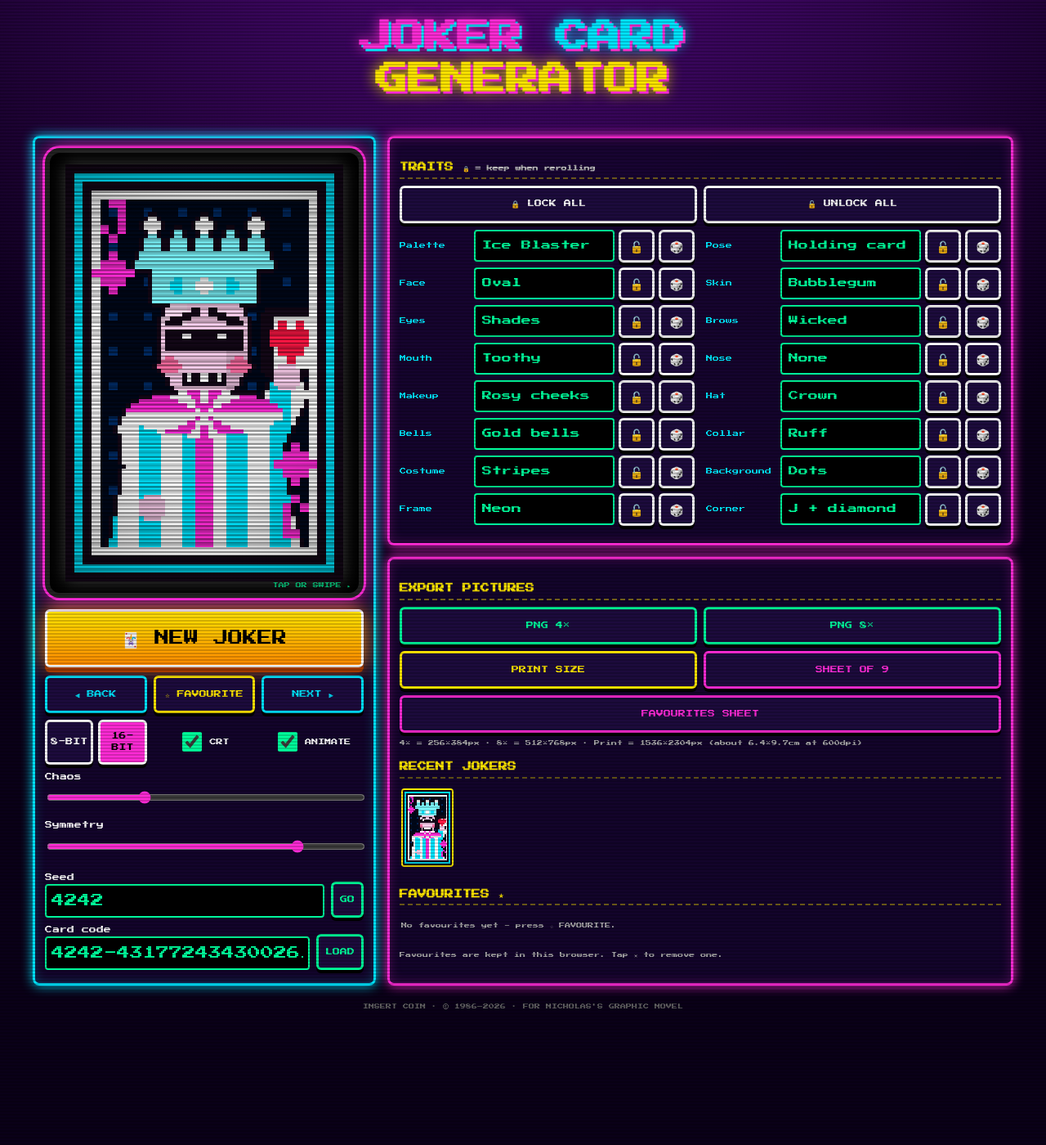
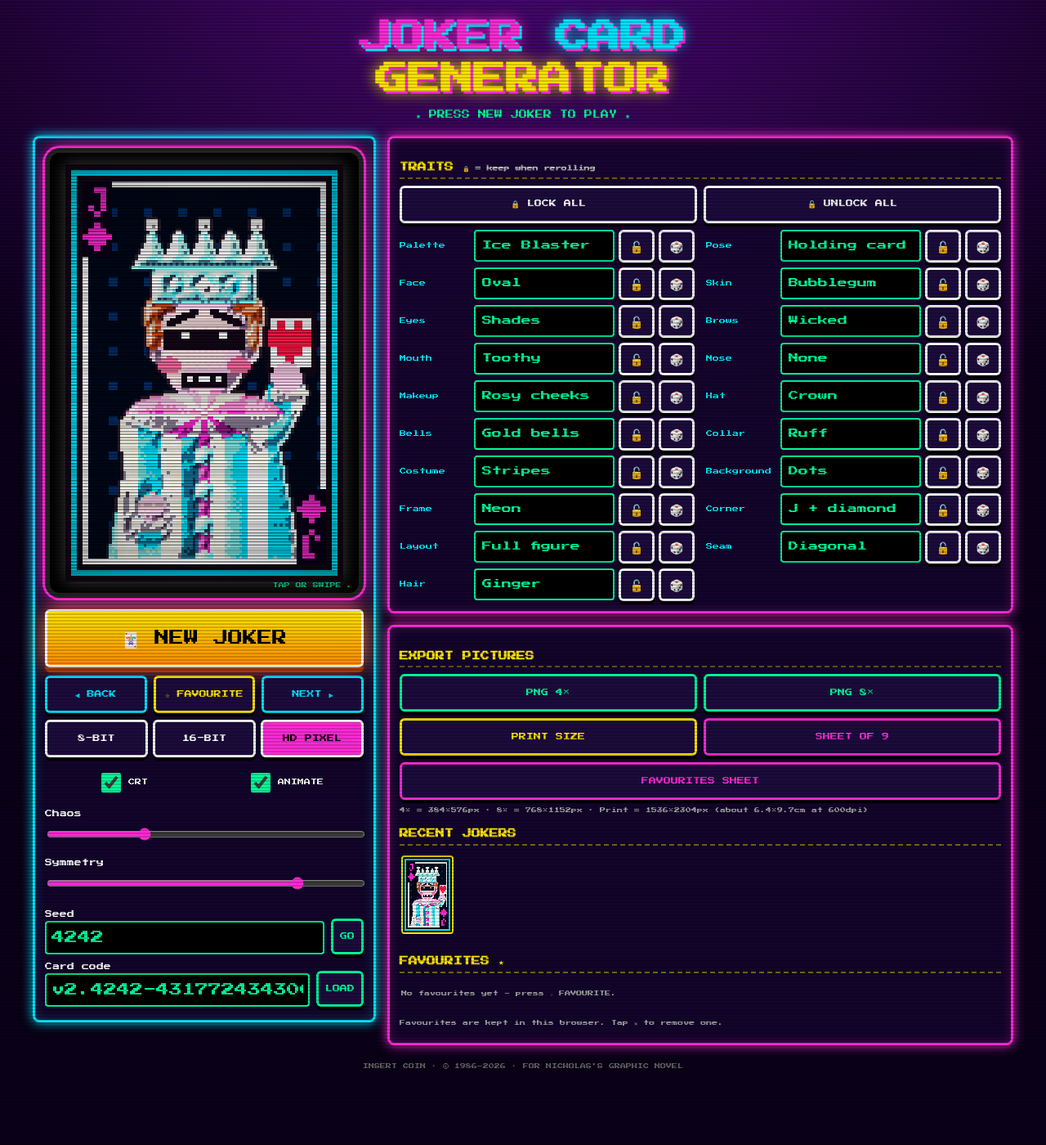
HD pixel mode: shading, dithering, rim light, materials; double-ended court-card layout

Changed region(s): [[0.0, 0.1229, 1.0, 0.9214], [0.4062, 0.0921, 0.5312, 0.1229], [0.5625, 0.0921, 0.5938, 0.1229]]

diff --git a/engine.js b/engine.js
@@ -23,19 +23,20 @@ const TRAITS={
  hat:["Two points","Three points","Four floppy","Crown","Hood","Top hat","Pom-pom cap"],bells:["Gold bells","Pom-poms","No bells"],
  collar:["Ruff","Zigzag","Bow tie","Pointed","None"],costume:["Diamonds","Halves","Stripes","Polka dots","Checks"],
  background:["Diagonal stripes","Checkerboard","Diamonds","Sunburst","Starfield","Synthwave grid","Dots","Plain"],
- frame:["Classic card","Neon","Gold ornate","Arcade cabinet","Ticket","Double line"],corner:["J + star","J + heart","J + diamond","JOKER vertical","Coin","Crown"]};
+ frame:["Classic card","Neon","Gold ornate","Arcade cabinet","Ticket","Double line"],corner:["J + star","J + heart","J + diamond","JOKER vertical","Coin","Crown"],
+ layout:["Double-ended","Full figure"],seam:["Horizontal","Diagonal"],hair:["Ginger","Black","Blonde","Purple","Bald"]};
 const TRAIT_KEYS=Object.keys(TRAITS);
-function rollTrait(seed,k){return Math.floor(RNG(seed^hashStr(k))()*TRAITS[k].length);}
+function rollTrait(seed,k){if(k==='layout')return RNG(seed^hashStr(k))()<.75?0:1;return Math.floor(RNG(seed^hashStr(k))()*TRAITS[k].length);}
 function newJoker(seed,locked={},prev=null,settings={chaos:.3,symmetry:.8}){const t={};TRAIT_KEYS.forEach(k=>t[k]=(locked[k]&&prev)?prev.traits[k]:rollTrait(seed,k));return{seed,traits:t,chaos:settings.chaos,symmetry:settings.symmetry};}
 const MINI={J:"011 001 001 101 010",O:"010 101 101 101 010",K:"101 101 110 101 101",E:"111 100 110 100 111",R:"110 101 110 101 101",
  star:"00100 11111 01110 01010 10001",heart:"01010 11111 11111 01110 00100",diamond:"00100 01110 11111 01110 00100",coin:"01110 11011 11011 11011 01110",crown:"10101 11111 11111 00000 11111"};
 
 function renderJoker(J,res,anim={}){
- const S=res===16?2:1,W=32*S,H=48*S,t=J.traits,P=PALETTES[t.palette],R=RNG(J.seed*2654435761+7),ch=J.chaos,sym=J.symmetry;
+ const HD=res==='hd',S=HD?3:res===16?2:1,W=32*S,H=48*S,t=J.traits,DE=t.layout===0,P=PALETTES[t.palette],R=RNG(J.seed*2654435761+7),ch=J.chaos,sym=J.symmetry;
  const jit=a=>(R()-.5)*2*a*ch,asym=()=>R()>sym;
- const pose=t.pose,bust=pose===0,fs=bust?1.3:1,cy=bust?25:20.5;
- const ops=[],add=(fig,test,col)=>ops.push({fig,test,col});
- const L=(x,y)=>[(x-16)/fs,(y-cy)/fs];
+ const pose=t.pose,bust=pose===0,fs=DE?(bust?.98:.9):(bust?1.3:1),cy=DE?(bust?15.2:14.6):(bust?25:20.5),cxo=DE&&t.seam===1?-3.2:0;let mat='flat';
+ const ops=[],add=(fig,test,col)=>ops.push({fig,test,col,mat});
+ const L=(x,y)=>[(x-16-cxo)/fs,(y-cy)/fs];
  const F=(test,col,fig=true)=>add(fig,(x,y)=>{const[a,b]=L(x,y);return test(a,b);},typeof col==='function'?(x,y)=>{const[a,b]=L(x,y);return col(a,b);}:col);
  const ell=(cx,cy,rx,ry)=>(x,y)=>((x-cx)/rx)**2+((y-cy)/ry)**2<=1;
  const rect=(x0,y0,x1,y1)=>(x,y)=>x>=x0&&x<x1&&y>=y0&&y<y1;
@@ -52,20 +53,26 @@ function renderJoker(J,res,anim={}){
  const stars=[];if(t.background===4)for(let i=0;i<40;i++)stars.push([Math.floor(R()*32),Math.floor(R()*48),R()<.3?c2:"#ffffff"]);
  add(false,()=>true,(x,y)=>bgFn?bgFn(x,y):(stars.some(s=>s[0]===Math.floor(x)&&s[1]===Math.floor(y))?stars.find(s=>s[0]===Math.floor(x)&&s[1]===Math.floor(y))[2]:bgA));
  // ---- body / arms
+ mat='cloth';
  const cst=t.costume,cosCol=(x,y)=>[(((Math.floor((x+y)/3)+Math.floor((x-y)/3))%2+2)%2)?c0:c1,x<0?c0:c1,(Math.floor(x/2.5)%2+2)%2?c0:c1,((Math.round(x)%4+4)%4===0&&(Math.round(y)%4+4)%4===0)?c2:c0,((Math.floor(x/3)+Math.floor(y/3))%2+2)%2?c0:c1][cst];
- const armSide=(side,hx,hy)=>{F(seg(side*7.5,10,hx,hy+2,2.3),side<0?(cst===1?c0:c1):(cst===1?c1:c0));F(seg(side*7.5,10,hx,hy+2,2.3),(x,y)=>cosCol(x,y));F(ell(hx,hy,1.7,1.7),t.skin===4?"#ffffff":shade(skin,-.05));};
+ const armSide=(side,hx,hy)=>{mat='cloth';F(seg(side*7.5,10,hx,hy+2,2.3),(x,y)=>cosCol(x,y));F(ell(hx+side*.2,hy+1.9,2.2,1.1),'#ffffff');mat='skin';F(ell(hx,hy,1.7,1.7),t.skin===4?"#ffffff":skin);F(rect(hx-1.6,hy-.5,hx+1.6,hy-.1),shade(skin,-.25));mat='cloth';};
  const hands={1:[[-6,19],[6,19]],2:[[-10,2],[10,2]],3:[[-6,19],[9.5,4]],4:[[-9.5,4],[6,19]],5:[[-6,19],[9.5,4]]}[pose];
  F(poly([[-8,8],[8,8],[14,40],[-14,40]]),cosCol);
- F(seg(0,10,0,30,.8),c2);[13,17,21,25].forEach(y=>F(ell(0,y,1.1,1.1),c2));
+ F(seg(0,10,0,30,.8),c2);mat='metal';[13,17,21,25].forEach(y=>F(ell(0,y,1.1,1.1),P.gold));mat='cloth';
  if(hands)hands.forEach(([hx,hy],i)=>armSide(i?1:-1,hx,hy));
  // ---- hood (behind face)
  if(t.hat===4){F(ell(0,-1,8.6,9.6),c0);F(poly([[-6,-7],[6,-7],[3,-16],[0,-17]]),c1);F(ell(0,-1,6.8,8),dark);}
  // ---- neck + face
- F(rect(-2,4,2,9),shade(skin,-.15));
+ const fsh0rx=()=>[6,5.2,4.6,5.4,6][t.face];
+ mat='skin';F(rect(-2,4,2,9),shade(skin,-.18));
+ const hairC=["#c2410c","#1b1b2f","#f5c542","#7c3aed",null][t.hair];
+ if(t.hat!==4){F(mir(ell(fsh0rx()+.1,.6,1.2,1.8)),skin);F(mir(ell(fsh0rx()+.1,.8,.5,.9)),shade(skin,-.3));}
  const fsh=[ell(0,0,6,6.5),ell(0,0,5.2,7),ell(0,.6,4.6,7.6),(x,y)=>Math.abs(x)<=5.4&&Math.abs(y)<=6.4&&!(Math.abs(x)>4.4&&Math.abs(y)>5.4),
   (x,y)=>ell(0,-1,6,5.6)(x,y)||poly([[-5.6,0],[5.6,0],[0,7.5]])(x,y)][t.face];
- const harl=t.makeup===5,hside=asym()?1:-1;
- F(fsh,(x,y)=>{let c=skin;if(harl&&x*hside>0)c=shade(c0,.55);if(x>2.5&&y>1)c=shade(c,-.12);if(x<-2&&y<-2)c=shade(c,.25);return c;});
+ mat='skin';const harl=t.makeup===5,hside=asym()?1:-1;
+ F(fsh,(x,y)=>{let c=skin;if(harl&&x*hside>0)c=shade(c0,.55);return c;});
+ if(hairC&&t.hat!==4){mat='cloth';F(mir((x,y)=>ell(5.2,-3,1.9,2.6)(x,y)&&!ell(3.4,-1.4,1.8,2.2)(x,y)),hairC);F(mir(ell(5.8,-.8,1,1.6)),hairC);}
+ mat='flat';
  // ---- makeup
  const ex=2.6+jit(.4),ey=-.6+jit(.3);
  if(t.makeup===1){const d=(x,y)=>Math.abs(x-ex)/1.4+Math.abs(y-ey)/3.2<=1;const one=asym();F((x,y)=>d(x,y)||(!one&&d(-x,y)),c0);}
@@ -76,7 +83,8 @@ function renderJoker(J,res,anim={}){
  // ---- eyes
  const blink=anim.blink,ev=blink&&t.eyes!==7?-1:t.eyes,E=(f,c)=>F(mir(f),c),Eone=(f,c,side)=>F((x,y)=>f(side*x,y),c);
  if(ev===-1)E(rect(ex-1,ey,ex+1,ey+.9),dark);
- if(ev===0)E(rect(ex-.5,ey-1,ex+.6,ey+.9),dark);
+ if(ev===0&&!HD)E(rect(ex-.5,ey-1,ex+.6,ey+.9),dark);
+ if(ev===0&&HD){E(ell(ex,ey,1.45,1.05),"#fdf6ff");E(ell(ex+.15,ey+.05,.8,.95),c1);E(ell(ex+.2,ey+.1,.42,.5),dark);E(rect(ex-.5,ey-.55,ex-.15,ey-.2),"#ffffff");E(rect(ex-1.5,ey-1.15,ex+1.5,ey-.75),dark);}
  if(ev===1){E(ell(ex,ey,1.5,1.6),"#ffffff");E(rect(ex-.4,ey-.6,ex+.7,ey+.9),dark);}
  if(ev===2){Eone(rect(ex-.5,ey-1,ex+.6,ey+.9),dark,1);Eone((x,y)=>seg(ex-1.2,ey+.4,ex+1.2,ey-.2,.45)(x,y),dark,-1);}
  if(ev===3)E((x,y)=>seg(ex-1,ey-1,ex+1,ey+1,.4)(x,y)||seg(ex-1,ey+1,ex+1,ey-1,.4)(x,y),dark);
@@ -100,57 +108,92 @@ function renderJoker(J,res,anim={}){
  if(m===5)F(ell(0,my,1.2,1.3),dark);
  if(m===6){F((x,y)=>ell(0,my-1.3,4,2.3)(x,y)&&!ell(0,my-2.4,3.4,2)(x,y),"#ff1744");F((x,y)=>seg(-3,my-1.1,3,my-1.1,.3)(x,y)&&ell(0,my-1.3,4,2.3)(x,y)&&!ell(0,my-2.4,3.4,2)(x,y),dark);}
  // ---- collar
- const co=t.collar;
+ mat='cloth';const co=t.collar;
  if(co===0)F(ell(0,8.2,9,2.6),(x,y)=>{const a=Math.atan2(y-8.2,x);return Math.floor((a+Math.PI)/(Math.PI/7))%2?"#ffffff":c2;});
  if(co===1)for(let i=-4;i<4;i++)F(poly([[i*2.2,6.8],[(i+1)*2.2,6.8],[(i+.5)*2.2,11]]),i%2?c2:"#ffffff");
  if(co===2){F(mir(poly([[0,7.7],[4,5.8],[4,10],])),c0);F(ell(0,7.9,1.2,1.2),c2);}
  if(co===3){F(rect(-7,6.5,7,8.5),c1);[[-12,12],[-5,13.5],[5,13.5],[12,12]].forEach(([tx,ty],i)=>F(poly([[(i-2)*3.5,7],[(i-1)*3.5,7],[tx,ty]]),i%2?c0:c2));}
  // ---- hats
- const tips=[],bellsOn=t.bells!==2,hc=i=>(i%2?c1:c0);
+ mat='cloth';const tips=[],bellsOn=t.bells!==2,hc=i=>(i%2?c1:c0);
  const pointHat=(list)=>list.forEach(([b0,b1,tx,ty],i)=>{tx+=jit(1.2);ty+=jit(1.2);const mx=(b0+b1)/2+(tx-(b0+b1)/2)*.4,mY=Math.min(ty,-6)-3;
   const col=asym()&&i===list.length-1?c2:hc(i);F(poly([[b0,-4.6],[mx-1,mY],[tx,ty],[mx+1,mY+1],[b1,-4.6]]),col);tips.push([tx,ty]);});
  if(t.hat===0)pointHat([[-6.4,0,-11,-1],[0,6.4,11,-1]]);
  if(t.hat===1)pointHat([[-6.4,-1.5,-10.5,-6],[-2.2,2.2,0,-15.5],[1.5,6.4,10.5,-6]]);
  if(t.hat===2)pointHat([[-6.4,-2,-12,1],[-3,0,-5,-15],[0,3,5,-15],[2,6.4,12,1]]);
  if(t.hat<=2)F(rect(-6.6,-6.2,6.6,-4),(x,y)=>(Math.floor(x+20)+Math.floor(y+20))%2?c2:"#ffffff");
- if(t.hat===3){F(rect(-6,-8.5,6,-4.5),P.gold);F((x,y)=>y<-8.4&&y>-13&&[-6,-3,0,3,6].some(px=>Math.abs(x-px)*2.2<y+13.5),P.gold);[-3.2,0,3.2].forEach((gx,i)=>F(ell(gx,-6.5,.9,.9),[c0,c1,c0][i]));tips.push(...[-6,0,6].map(x=>[x,-13.5]));}
+ if(t.hat===3){mat='metal';F(rect(-6,-8.5,6,-4.5),P.gold);F((x,y)=>y<-8.4&&y>-13&&[-6,-3,0,3,6].some(px=>Math.abs(x-px)*2.2<y+13.5),P.gold);[-3.2,0,3.2].forEach((gx,i)=>F(ell(gx,-6.5,.9,.9),[c0,c1,c0][i]));tips.push(...[-6,0,6].map(x=>[x,-13.5]));}
  if(t.hat===4)tips.push([0,-17]);
  if(t.hat===5){F(rect(-8.5,-6.6,8.5,-4.6),dark);F(rect(-5,-16,5,-6.4),dark);F(rect(-5,-9,5,-7),c0);F(rect(-3.6,-15,-2.6,-10),"#555555");}
  if(t.hat===6){F((x,y)=>ell(0,-4.6,6.8,5)(x,y)&&y<-4,(x,y)=>Math.floor(x/2.2+10)%2?c0:c1);F(rect(-6.8,-5.2,6.8,-3.8),"#ffffff");tips.push([0,-10.4]);}
- const jy=anim.jingle?-.8:0;
+ mat='metal';const jy=anim.jingle?-.8:0;
  if(t.hat!==5&&t.hat!==3)tips.forEach(([x,y],i)=>{if(!bellsOn)return;const dy=i%2?jy:-jy;
   if(t.bells===0){F(ell(x,y+dy,1.5,1.5),P.gold);F(rect(x-.6,y+dy-.9,x,y+dy-.3),"#ffffff");F(rect(x-.3,y+dy+.6,x+.3,y+dy+1.4),dark);}
   else F(ell(x,y+dy,1.6,1.6),i%2?"#ffffff":c2);});
  if(t.hat===3)tips.forEach(([x,y])=>F(ell(x,y,.8,.8),"#ffffff"));
  // ---- props
+ mat='metal';
  if(pose===2){[[-12,-3],[12,-4],[9,-12]].forEach(([x,y],i)=>{x+=jit(1);F(ell(x,y,1.6,1.6),[c2,c0,c1][i]);F(rect(x-.9,y-.9,x-.2,y-.2),"#ffffff");});F(mir(seg(-11.5,-7,-10.8,-10,.3)),"#ffffff");}
- if(pose===3){F(rect(7.2,-3.5,12.8,3.6),"#ffffff");F((x,y)=>!rect(7.8,-2.9,12.2,3)(x,y)&&rect(7.2,-3.5,12.8,3.6)(x,y),dark);const h=MINI.heart.split(' ');F((x,y)=>{const a=Math.floor(x-7.5),b=Math.floor(y+2.4);return a>=0&&a<5&&b>=0&&b<5&&h[b][a]==='1';},"#ff1744");F(ell(9.5,4,1.7,1.7),skin);}
+ mat='flat';if(pose===3){F(rect(7.2,-3.5,12.8,3.6),"#ffffff");F((x,y)=>!rect(7.8,-2.9,12.2,3)(x,y)&&rect(7.2,-3.5,12.8,3.6)(x,y),dark);const h=MINI.heart.split(' ');F((x,y)=>{const a=Math.floor(x-7.5),b=Math.floor(y+2.4);return a>=0&&a<5&&b>=0&&b<5&&h[b][a]==='1';},"#ff1744");F(ell(9.5,4,1.7,1.7),skin);}
  if(pose===4){F(seg(-9.5,2.2,-8,-3.4,.35),"#00a83a");F(seg(-6.7,2.6,-8,-3.4,.35),"#00a83a");F(ell(-7,-3.6,1.3,.7),"#2ee84a");F(ell(-10,2.6,1.6,1.6),"#ff1744");F(ell(-6.6,3,1.6,1.6),"#d50032");F(rect(-10.6,1.8,-10,2.4),"#ffffff");}
  if(pose===5){F(rect(7.4,-.6,11.8,3.8),"#ffffff");F((x,y)=>!rect(7.9,-.1,11.3,3.3)(x,y)&&rect(7.4,-.6,11.8,3.8)(x,y),dark);[[8.6,.6],[10.6,2.6],[9.6,1.6]].forEach(([x,y])=>F(rect(x-.4,y-.4,x+.5,y+.5),"#ff1744"));F(ell(9.5,4.6,1.7,1.4),skin);}
  // ---- rasterize
- const px=new Array(W*H),fig=new Uint8Array(W*H);
- for(let j=0;j<H;j++)for(let i=0;i<W;i++){const x=(i+.5)/S,y=(j+.5)/S;let c=null,f=0;for(const o of ops)if(o.test(x,y)){c=typeof o.col==='function'?o.col(x,y):o.col;f=o.fig?1:f;if(!o.fig)f=0;}px[j*W+i]=c;fig[j*W+i]=f;}
- for(let j=0;j<H;j++)for(let i=0;i<W;i++){const k=j*W+i;if(fig[k])continue;if((i>0&&fig[k-1])||(i<W-1&&fig[k+1])||(j>0&&fig[k-W])||(j<H-1&&fig[k+W]))px[k]=dark;}
- // ---- frame & corners (drawn on top, base coords)
- const put=(x,y,c)=>{for(let a=0;a<S;a++)for(let b=0;b<S;b++){const X=x*S+a,Y=y*S+b;if(X>=0&&X<W&&Y>=0&&Y<H)px[Y*W+X]=c;}};
- const fr=t.frame,edge=(x,y)=>Math.min(x,y,31-x,47-y);
- for(let y=0;y<48;y++)for(let x=0;x<32;x++){const e=edge(x,y),corner=(x<2||x>29)&&(y<2||y>45);
-  if(fr===0){if(e===0)put(x,y,corner?"transparent":dark);else if(e<=2)put(x,y,P.card);else if(e===3)put(x,y,dark);if(e===0&&corner)put(x,y,null);}
+ const N=W*H,base=new Array(N),flatTop=new Uint8Array(N),px=new Array(N),fig=new Uint8Array(N),oid=new Int16Array(N).fill(-1);
+ for(let j=0;j<H;j++)for(let i=0;i<W;i++){const x=(i+.5)/S,y=(j+.5)/S;let c=null,f=0,id=-1,bc=null,top=-1;for(let n=0;n<ops.length;n++){const o=ops[n];if(o.test(x,y)){c=typeof o.col==='function'?o.col(x,y):o.col;f=o.fig?1:0;top=n;if(o.mat!=='flat'||!o.fig){id=n;bc=c;}}}const k=j*W+i;px[k]=c;fig[k]=f;oid[k]=id;base[k]=bc;flatTop[k]=top!==id?1:0;}
+ if(res!==8){shadePass(W,H,S,base,fig,oid,ops,P,t);for(let k=0;k<N;k++)if(!flatTop[k])px[k]=base[k];}
+ for(let k=0;k<N;k++){if(fig[k])continue;const i=k%W,j=(k/W)|0;const nb=[i>0&&k-1,i<W-1&&k+1,j>0&&k-W,j<H-1&&k+W].filter(v=>v!==false&&fig[v]);if(nb.length)px[k]=res===8?dark:mixHex(rampOf(px[nb[0]])[0],dark,.55);}
+ // ---- double-ended composite (court card): bottom = top rotated 180 degrees
+ if(DE){const src=px.slice(),diag=t.seam===1;for(let j=0;j<H;j++)for(let i=0;i<W;i++){const top=diag?(i/W+j/H<1):(j<H/2);if(!top)px[j*W+i]=src[(H-1-j)*W+(W-1-i)];}
+  const u0=Math.max(1,S===3?2:S);for(let j=0;j<H;j++)for(let i=0;i<W;i++){const d=diag?Math.abs((i+.5)/W+(j+.5)/H-1)*H:Math.abs(j+.5-H/2);if(d<u0*.75)px[j*W+i]=P.gold;else if(d<u0*1.5)px[j*W+i]=dark;}}
+ // ---- frame & corners in u-units
+ const u=S===3?2:S,CW=W/u,CH=H/u;
+ const put=(x,y,c)=>{for(let a=0;a<u;a++)for(let b=0;b<u;b++){const X=x*u+a,Y=y*u+b;if(X>=0&&X<W&&Y>=0&&Y<H)px[Y*W+X]=c;}};
+ const fr=t.frame,edge=(x,y)=>Math.min(x,y,CW-1-x,CH-1-y);
+ for(let y=0;y<CH;y++)for(let x=0;x<CW;x++){const e=edge(x,y),corner=(x<2||x>CW-3)&&(y<2||y>CH-3);
+  if(fr===0){if(e===0)put(x,y,corner?null:dark);else if(e<=2)put(x,y,corner&&e===1&&(x===1||x===CW-2)&&(y===1||y===CH-2)?dark:P.card);else if(e===3)put(x,y,dark);}
   if(fr===1){if(e===0)put(x,y,dark);else if(e===1)put(x,y,c0);else if(e===2)put(x,y,dark);else if(e===3)put(x,y,c1);}
   if(fr===2){if(e===0)put(x,y,dark);else if(e<=2)put(x,y,(x+y)%2?P.gold:shade(P.gold,-.3));else if(e===3)put(x,y,dark);}
   if(fr===3){if(e===0)put(x,y,dark);else if(e<=1||(y<8&&y>0))put(x,y,y<8&&e>1?(y===7?dark:shade(c1,-.4)):c0);}
-  if(fr===4){const sc=(x===0||x===31)?(y%4===2):(y===0||y===47)?(x%4===2):false;if(e===0)put(x,y,sc?null:P.card);else if(e===1)put(x,y,P.card);else if(e===2)put(x,y,c0);}
+  if(fr===4){const sc=(x===0||x===CW-1)?(y%4===2):(y===0||y===CH-1)?(x%4===2):false;if(e===0)put(x,y,sc?null:P.card);else if(e===1)put(x,y,P.card);else if(e===2)put(x,y,c0);}
   if(fr===5){if(e===0||e===3)put(x,y,dark);else if(e===1)put(x,y,c1);else if(e===2)put(x,y,c2);}}
- if(fr===2)[[1,1],[30,1],[1,46],[30,46]].forEach(([x,y])=>{put(x,y,"#ffffff");});
+ if(fr===2)[[1,1],[CW-2,1],[1,CH-2],[CW-2,CH-2]].forEach(([x,y])=>put(x,y,"#ffffff"));
  const glyph=(g,ox,oy,c,flip)=>{const rows=MINI[g].split(' ');rows.forEach((r,y)=>[...r].forEach((v,x)=>{if(v==='1')put(flip?ox+r.length-1-x:ox+x,flip?oy+rows.length-1-y:oy+y,c);}));};
- if(fr===3){["J","O","K","E","R"].forEach((g,i)=>glyph(g,6+i*4,2,anim.blink?"#ffffff":c2));for(let x=2;x<30;x+=3)put(x,1,(x+(anim.tick||0))%2?"#ffffff":c2);}
- const ink=fr===1||fr===3?c2:(t.palette===7?"#0f380f":c0),inset=fr===3?9:4;
- const csym=["star","heart","diamond",null,"coin","crown"][t.corner];
- if(t.corner===3){["J","O","K","E","R"].forEach((g,i)=>{if(4+i*6+5<44)glyph(g,4,(fr===3?9:4)+i*6,ink);glyph(g,25,38-i*6,ink,true);});}
- else{if(t.corner<=2)glyph("J",4,inset,ink);glyph(csym,t.corner<=2?3:4,t.corner<=2?inset+6:inset,t.corner===1?"#ff1744":(t.corner>=4?P.gold:ink));
-  if(t.corner<=2)glyph("J",25,43-5,ink,true);glyph(csym,t.corner<=2?24:23,t.corner<=2?37-5:38,t.corner===1?"#ff1744":(t.corner>=4?P.gold:ink),true);}
+ const box=(x0,y0,w,h,c)=>{for(let y=y0;y<y0+h;y++)for(let x=x0;x<x0+w;x++)put(x,y,c);};
+ if(fr===3){["J","O","K","E","R"].forEach((g,i)=>glyph(g,Math.round(CW/2)-10+i*4,2,anim.blink?"#ffffff":c2));for(let x=2;x<CW-2;x+=3)put(x,1,(x+(anim.tick||0))%2?"#ffffff":c2);}
+ const ink=fr===1||fr===3?c2:(t.palette===7?"#0f380f":c0),inset=fr===3?9:4,csym=["star","heart","diamond",null,"coin","crown"][t.corner];
+ const symCol=t.corner===1?"#ff1744":(t.corner>=4?P.gold:ink);
+ // index plate behind corner marks so they read over the art (classic court-card index)
+ const plate=fr===1||fr===3?"#0a0018":P.card,ph=t.corner===3?Math.min(31,CH-inset-6):(t.corner<=2?12:6);
+ if(res!==8){box(3,inset-1,5,ph+1,plate);box(CW-8,CH-inset-ph,5,ph+1,plate);}
+ if(t.corner===3){["J","O","K","E","R"].forEach((g,i)=>{if(i*6+5<=ph)glyph(g,4,inset+i*6,ink);if(i*6+5<=ph)glyph(g,CW-7,CH-inset-5-i*6,ink,true);});}
+ else{if(t.corner<=2)glyph("J",4,inset,ink);glyph(csym,t.corner<=2?3:3,t.corner<=2?inset+6:inset,symCol);
+  if(t.corner<=2)glyph("J",CW-7,CH-inset-5,ink,true);glyph(csym,CW-8,t.corner<=2?CH-inset-11:CH-inset-5,symCol,true);}
  return{W,H,px};}
 
+function mixHex(a,b,t){const p=h=>{const n=parseInt(h.slice(1,7),16);return[n>>16,(n>>8)&255,n&255];};const A=p(a),B=p(b);return'#'+A.map((v,i)=>Math.round(v+(B[i]-v)*t).toString(16).padStart(2,'0')).join('');}
+const _ramps={};
+function rampOf(c){if(!c||c[0]!=='#')return[c,c,c,c,c];c=c.slice(0,7);return _ramps[c]||(_ramps[c]=[mixHex(shade(c,-.62),'#1e0838',.4),mixHex(shade(c,-.34),'#4a1670',.25),c,mixHex(shade(c,.32),'#fff1b0',.25),mixHex(shade(c,.66),'#fffbe8',.35)]);}
+const BAYER=[0,8,2,10,12,4,14,6,3,11,1,9,15,7,13,5];
+// Light from top-left; height field from distance-to-region-edge; dithered 5-tone ramps
+function shadePass(W,H,S,px,fig,oid,ops,P,t){
+ const N=W*H,d=new Float32Array(N);for(let k=0;k<N;k++){const i=k%W,j=(k/W)|0,o=oid[k];d[k]=(i===0||j===0||i===W-1||j===H-1||oid[k-1]!==o||oid[k+1]!==o||oid[k-W]!==o||oid[k+W]!==o)?1:99;}
+ for(let j=1;j<H;j++)for(let i=1;i<W;i++){const k=j*W+i;d[k]=Math.min(d[k],d[k-1]+1,d[k-W]+1,d[k-W-1]+1.4,(i<W-1?d[k-W+1]+1.4:99));}
+ for(let j=H-2;j>=0;j--)for(let i=W-2;i>=0;i--){const k=j*W+i;d[k]=Math.min(d[k],d[k+1]+1,d[k+W]+1,d[k+W+1]+1.4,(i>0?d[k+W-1]+1.4:99));}
+ const R=2.6*S,h=k=>Math.sqrt(Math.min(d[k],R)/R),Lx=-.7,Ly=-.75,rim=mixHex(P.c[1],'#ffffff',.45),out=px.slice();
+ for(let j=1;j<H-1;j++)for(let i=1;i<W-1;i++){const k=j*W+i;if(!fig[k])continue;if(oid[k]<0)continue;const o=ops[oid[k]],m=o.mat;if(m==='flat')continue;
+  const gx=(h(k+1)-h(k-1))*R/2,gy=(h(k+W)-h(k-W))*R/2;let lum=.62+.42*(-(gx*Lx+gy*Ly))/Math.max(1,Math.hypot(gx,gy)*.9+.1)*Math.min(1,Math.hypot(gx,gy)*1.5)+(.5-j/H)*.1;
+  if(m==='cloth'){const ph=oid[k]*1.7;lum+=.11*Math.sin(i/S*.75+Math.sin(j/S*.22+ph)*1.2+ph)*Math.min(1,d[k]/(1.5*S));}
+  if(m==='metal'){lum=.5+(lum-.5)*1.7;}
+  if(m==='skin')lum=.55+(lum-.55)*.85;
+  // ambient occlusion: something drawn in front just above/left casts a soft shadow
+  let ao=0;for(const[dx,dy]of[[0,-1],[-1,-1],[0,-2],[1,-1],[-1,0]]){const kk=(j+dy*Math.ceil(S/2))*W+i+dx*Math.ceil(S/2);if(kk>=0&&fig[kk]&&oid[kk]>oid[k]&&ops[oid[kk]].mat!=='flat'){ao++;}}
+  lum-=Math.min(.32,ao*.09);
+  let idx=Math.floor(lum*5+(BAYER[(j&3)*4+(i&3)]/16-.5)*(m==='skin'?.25:.5));
+  if(m==='metal'&&lum>.9)idx=5;idx=Math.max(0,Math.min(5,idx));
+  const ramp=rampOf(px[k]);let c=idx===5?'#ffffff':ramp[idx];
+  // rim light on the shadow side silhouette
+  if(!fig[k+1]||!fig[k+W+1]){if(i/W>.45)c=mixHex(ramp[3],rim,.55);}
+  out[k]=c;}
+ for(let k=0;k<N;k++)px[k]=out[k];}
 function drawJoker(canvas,J,res,scale,anim,crt){const {W,H,px}=renderJoker(J,res,anim);canvas.width=W*scale;canvas.height=H*scale;const c=canvas.getContext('2d');c.clearRect(0,0,canvas.width,canvas.height);
  for(let i=0;i<px.length;i++){const v=px[i];if(!v||v==='transparent')continue;c.fillStyle=v;c.fillRect((i%W)*scale,Math.floor(i/W)*scale,scale,scale);}
  if(crt&&scale>=3){c.fillStyle='rgba(0,0,0,.28)';const st=Math.max(2,Math.round(scale/2));for(let y=0;y<canvas.height;y+=st*2)c.fillRect(0,y,canvas.width,st);

diff --git a/app.js b/app.js
@@ -1,47 +1,47 @@
+const DIM={8:32,16:64,hd:96},SC={8:12,16:6,hd:4},PR={8:48,16:24,hd:16},SH={8:8,16:4,hd:3};
 const $=id=>document.getElementById(id);
-const S={res:16,crt:true,anim:true,chaos:.3,symmetry:.8},locks={};let J,hist=[],hi=-1,tick=0;
+const S={res:'hd',crt:true,anim:true,chaos:.3,symmetry:.8},locks={};let J,hist=[],hi=-1,tick=0;
 let favs=[];try{favs=JSON.parse(localStorage.getItem('jokerFavs')||'[]');}catch(e){}
 const randSeed=()=>1+Math.floor(Math.random()*999999);
-const code=j=>[j.seed,TRAIT_KEYS.map(k=>j.traits[k].toString(36)).join(''),Math.round(j.chaos*100),Math.round(j.symmetry*100)].join('-');
-function fromCode(s){const[a,b,c,d]=s.trim().split('-');if(!b||b.length!==TRAIT_KEYS.length)throw 0;const t={};TRAIT_KEYS.forEach((k,i)=>t[k]=Math.min(TRAITS[k].length-1,parseInt(b[i],36)));return{seed:+a,traits:t,chaos:(+c||0)/100,symmetry:(+d||0)/100};}
+const code=j=>'v2.'+[j.seed,TRAIT_KEYS.map(k=>j.traits[k].toString(36)).join(''),Math.round(j.chaos*100),Math.round(j.symmetry*100)].join('-');
+function fromCode(s){s=s.trim();const v2=s.startsWith('v2.');if(v2)s=s.slice(3);const[a,b,c,d]=s.split('-');const n=v2?TRAIT_KEYS.length:17;if(!b||b.length!==n)throw 0;const t={};TRAIT_KEYS.forEach((k,i)=>t[k]=i<n?Math.min(TRAITS[k].length-1,parseInt(b[i],36)):0);if(!v2){t.layout=1;t.seam=0;t.hair=rollTrait(+a,'hair');}return{seed:+a,traits:t,chaos:(+c||0)/100,symmetry:(+d||0)/100};}
 function push(j){hist=hist.slice(0,hi+1);hist.push(j);if(hist.length>40)hist.shift();hi=hist.length-1;show(j);}
 function show(j){J=j;tick=0;draw();syncUI();renderStrips();const c=$('card');c.classList.add('pop');setTimeout(()=>c.classList.remove('pop'),150);}
-function draw(){const sc=S.res===8?12:6,a=S.anim?{blink:tick%32>=30,jingle:Math.floor(tick/3)%2===1&&tick%32<12,tick:Math.floor(tick/2)}:{};drawJoker($('card'),J,S.res,sc,a,S.crt);}
+function draw(){const sc=SC[S.res],a=S.anim?{blink:tick%32>=30,jingle:Math.floor(tick/3)%2===1&&tick%32<12,tick:Math.floor(tick/2)}:{};const key=JSON.stringify([a.blink,a.jingle,J.traits.frame===3?a.tick:0,S.res,S.crt,code(J)]);if(key===lastKey)return;lastKey=key;drawJoker($('card'),J,S.res,sc,a,S.crt);}let lastKey='';
 function next(){push(newJoker(randSeed(),locks,J,S));}
 function syncUI(){$('seed').value=J.seed;$('code').value=code(J);$('chaos').value=S.chaos;$('symmetry').value=S.symmetry;$('crt').checked=S.crt;$('anim').checked=S.anim;
- document.querySelectorAll('#resSeg button').forEach(b=>b.classList.toggle('on',+b.dataset.v===S.res));
+ document.querySelectorAll('#resSeg button').forEach(b=>b.classList.toggle('on',b.dataset.v==String(S.res)));
  TRAIT_KEYS.forEach(k=>{$('sel-'+k).value=J.traits[k];$('lock-'+k).classList.toggle('locked',!!locks[k]);$('lock-'+k).textContent=locks[k]?'🔒':'🔓';});
  const isFav=favs.some(f=>code(f)===code(J));$('favBtn').textContent=isFav?'★ SAVED':'☆ FAVOURITE';
- const p=S.res===8?48:24;$('sizeNote').textContent=`4× = ${32*(S.res/8)*4}×${48*(S.res/8)*4}px · 8× = ${32*(S.res/8)*8}×${48*(S.res/8)*8}px · Print = ${32*(S.res/8)*p}×${48*(S.res/8)*p}px (about 6.4×9.7cm at 600dpi)`;}
+ const w=DIM[S.res],p=PR[S.res];$('sizeNote').textContent=`4× = ${w*4}×${w*6}px · 8× = ${w*8}×${w*12}px · Print = ${w*p}×${w*p*1.5}px (about 6.4×9.7cm at 600dpi)`;}
 const pretty=k=>k[0].toUpperCase()+k.slice(1);
 function buildTraits(){const box=$('traits');TRAIT_KEYS.forEach(k=>{const d=document.createElement('div');d.className='trait';
  d.innerHTML=`<span>${pretty(k)}</span><select id="sel-${k}">${TRAITS[k].map((n,i)=>`<option value="${i}">${n}</option>`).join('')}</select><button id="lock-${k}" title="Lock">🔓</button><button id="roll-${k}" title="Reroll this trait">🎲</button>`;box.appendChild(d);
  d.querySelector('select').onchange=e=>{const j=structuredClone(J);j.traits[k]=+e.target.value;push(j);};
  d.querySelector('#lock-'+k).onclick=()=>{locks[k]=!locks[k];syncUI();};
  d.querySelector('#roll-'+k).onclick=()=>{const j=structuredClone(J);let v;do{v=Math.floor(Math.random()*TRAITS[k].length);}while(v===j.traits[k]&&TRAITS[k].length>1);j.traits[k]=v;push(j);};});}
-function thumb(j,onClick,onRemove,cur){const w=document.createElement('div');w.className='thumb'+(cur?' cur':'');const c=drawJoker(document.createElement('canvas'),j,8,2,{},false);c.onclick=onClick;w.appendChild(c);
+function thumb(j,onClick,onRemove,cur){const w=document.createElement('div');w.className='thumb'+(cur?' cur':'');const c=drawJoker(document.createElement('canvas'),j,16,1,{},false);c.onclick=onClick;w.appendChild(c);
  if(onRemove){const x=document.createElement('button');x.className='x';x.textContent='✕';x.onclick=onRemove;w.appendChild(x);}return w;}
 function renderStrips(){const h=$('history');h.innerHTML='';hist.map((j,i)=>[j,i]).reverse().forEach(([j,i])=>h.appendChild(thumb(j,()=>{hi=i;show(j);},null,i===hi)));
  const f=$('favs');f.innerHTML='';if(!favs.length)f.innerHTML='<p class="note">No favourites yet - press ☆ FAVOURITE.</p>';
  favs.forEach((j,i)=>f.appendChild(thumb(j,()=>push(structuredClone(j)),()=>{favs.splice(i,1);saveFavs();renderStrips();syncUI();})));}
 function saveFavs(){try{localStorage.setItem('jokerFavs',JSON.stringify(favs));}catch(e){alert('Could not save favourites in this browser.');}}
 function download(canvas,name){canvas.toBlob(b=>{const a=document.createElement('a');a.href=URL.createObjectURL(b);a.download=name;document.body.appendChild(a);a.click();setTimeout(()=>{URL.revokeObjectURL(a.href);a.remove();},3000);},'image/png');}
-function sheet(list,name){const sc=S.res===8?8:4,cw=32*(S.res/8)*sc,ch=48*(S.res/8)*sc,gap=sc*4,cols=3,rows=Math.ceil(list.length/cols);
+function sheet(list,name){const sc=SH[S.res],cw=DIM[S.res]*sc,ch=DIM[S.res]*1.5*sc,gap=sc*4,cols=3,rows=Math.ceil(list.length/cols);
  const c=document.createElement('canvas');c.width=cols*cw+(cols+1)*gap;c.height=rows*ch+(rows+1)*gap;const x=c.getContext('2d');x.fillStyle='#0a0018';x.fillRect(0,0,c.width,c.height);
  list.forEach((j,i)=>x.drawImage(drawJoker(document.createElement('canvas'),j,S.res,sc,{},S.crt),gap+(i%cols)*(cw+gap),gap+Math.floor(i/cols)*(ch+gap)));download(c,name);}
 // wiring
 $('newBtn').onclick=next;$('nextBtn').onclick=()=>{if(hi<hist.length-1){hi++;show(hist[hi]);}else next();};
 $('prevBtn').onclick=()=>{if(hi>0){hi--;show(hist[hi]);}};
 $('favBtn').onclick=()=>{const c=code(J),i=favs.findIndex(f=>code(f)===c);if(i>=0)favs.splice(i,1);else favs.unshift(structuredClone(J));saveFavs();syncUI();renderStrips();};
-document.querySelectorAll('#resSeg button').forEach(b=>b.onclick=()=>{S.res=+b.dataset.v;draw();syncUI();});
+document.querySelectorAll('#resSeg button').forEach(b=>b.onclick=()=>{S.res=b.dataset.v==='hd'?'hd':+b.dataset.v;draw();syncUI();});
 $('crt').onchange=e=>{S.crt=e.target.checked;draw();};$('anim').onchange=e=>{S.anim=e.target.checked;tick=0;draw();};
 ['chaos','symmetry'].forEach(k=>$(k).oninput=e=>{S[k]=+e.target.value;J={...J,[k]:S[k]};draw();$('code').value=code(J);});
 ['chaos','symmetry'].forEach(k=>$(k).onchange=()=>push(structuredClone(J)));
 $('seedGo').onclick=()=>{const s=parseInt($('seed').value);if(s>0)push(newJoker(s,{},null,S));};
 $('codeGo').onclick=()=>{try{const j=fromCode($('code').value);S.chaos=j.chaos;S.symmetry=j.symmetry;push(j);}catch(e){alert("That card code doesn't look right.");}};
 $('lockAll').onclick=()=>{TRAIT_KEYS.forEach(k=>locks[k]=true);syncUI();};$('unlockAll').onclick=()=>{TRAIT_KEYS.forEach(k=>locks[k]=false);syncUI();};
-document.querySelectorAll('.exp').forEach(b=>b.onclick=()=>{const x=b.dataset.x,sc=x==='print'?(S.res===8?48:24):+x/(S.res===8?1:2)*(S.res===8?1:1);
- const scale=x==='print'?sc:(S.res===8?+x:+x);download(drawJoker(document.createElement('canvas'),J,S.res,scale,{},S.crt),`joker-${J.seed}-${x==='print'?'print':x+'x'}.png`);});
+document.querySelectorAll('.exp').forEach(b=>b.onclick=()=>{const x=b.dataset.x,scale=x==='print'?PR[S.res]:+x;download(drawJoker(document.createElement('canvas'),J,S.res,scale,{},S.crt),`joker-${J.seed}-${x==='print'?'print':x+'x'}.png`);});
 $('sheetBtn').onclick=()=>{const l=[J];for(let i=0;i<8;i++)l.push(newJoker(randSeed(),locks,J,S));sheet(l,`joker-sheet-${J.seed}.png`);};
 $('favSheetBtn').onclick=()=>{if(!favs.length)return alert('Save some favourites first!');sheet(favs.slice(0,9),'joker-favourites.png');};
 // tap & swipe

diff --git a/index.html b/index.html
@@ -10,7 +10,7 @@
  <button id="newBtn" class="mega">🃏 NEW JOKER</button>
  <div class="row"><button id="prevBtn" class="cyan">◀ BACK</button><button id="favBtn" class="yellow">☆ FAVOURITE</button><button id="nextBtn" class="cyan">NEXT ▶</button></div>
  <div class="row toggles">
-  <div class="seg" id="resSeg"><button data-v="8">8-BIT</button><button data-v="16">16-BIT</button></div>
+  <div class="seg" id="resSeg"><button data-v="8">8-BIT</button><button data-v="16">16-BIT</button><button data-v="hd">HD PIXEL</button></div>
   <label class="tog"><input type="checkbox" id="crt"> CRT</label><label class="tog"><input type="checkbox" id="anim"> ANIMATE</label>
  </div>
  <label>Chaos <input type="range" id="chaos" min="0" max="1" step="0.05"></label>

diff --git a/style.css b/style.css
@@ -35,3 +35,4 @@ select{font-size:12px;-webkit-appearance:none;appearance:none;padding:8px}
 .thumb{position:relative;flex:0 0 auto}.thumb canvas{width:64px;height:96px;image-rendering:pixelated;border:2px solid #333;border-radius:4px;display:block;cursor:pointer}
 .thumb.cur canvas{border-color:#ffe600}.thumb .x{position:absolute;top:-6px;right:-6px;min-height:0;padding:2px 5px;font-size:8px;border-width:2px;background:#ff1744}
 footer{text-align:center;color:#666;margin-top:20px;font-size:7px}
+.toggles{flex-wrap:wrap}.toggles .seg{flex:1 1 100%}

diff --git a/README.md b/README.md
@@ -4,12 +4,13 @@ Makes a new pixel-art Joker playing card every time you press a button, in brigh
 
 How to play
 - NEW JOKER (or tap/swipe the card, or press Space on a Mac) makes a brand-new joker. Swipe right or press BACK to go back.
-- 8-BIT / 16-BIT: chunky classic pixels or finer detail.
+- 8-BIT / 16-BIT / HD PIXEL: chunky classic pixels, finer detail, or HD PIXEL (the default). HD is still pixel art but has light and shadow from the top left, dithering, a rim light, folds in the fabric, and shiny metal bells and crowns. Each card uses a small set of colours, like a real retro game.
 - CRT adds old-TV scanlines. ANIMATE makes the joker blink and the bells jingle.
 - Chaos: how wild and wobbly the shapes are. Symmetry: lower it for lopsided, mischievous jokers.
 - TRAITS: change any part directly from its list. 🔒 keeps a trait when you press NEW JOKER, 🎲 rerolls only that trait.
-  Traits: palette (10 arcade colour schemes), pose (bust, half body, juggling, holding a card/cherries/dice), face shape, skin, eyes, brows, mouth, nose, makeup, hat (jester points, crown, hood, top hat, pom-pom cap), bells, collar, costume pattern, background, card frame, corner marks.
-- Seed: a number that makes a card. Card code: the exact recipe of the card on screen. Copy it down to bring that joker back later with LOAD.
+  Traits: palette (10 arcade colour schemes), pose (bust, half body, juggling, holding a card/cherries/dice), face shape, skin, eyes, brows, mouth, nose, makeup, hat (jester points, crown, hood, top hat, pom-pom cap), bells, collar, costume pattern, background, card frame, corner marks, layout (double-ended like a real court card, or one full figure), seam (horizontal or diagonal split) and hair.
+- Double-ended cards show the top half of the joker turned upside down in the bottom half, like real playing-card Kings and Queens. The corner indices sit in opposite corners, one of them upside down.
+- Seed: a number that makes a card. Card code: the exact recipe of the card on screen (codes now start with v2.; older codes still load and are shown as full-figure cards). Copy it down to bring that joker back later with LOAD.
 - ☆ FAVOURITE saves the card in this browser. RECENT JOKERS shows your last 40.
 
 Saving pictures
